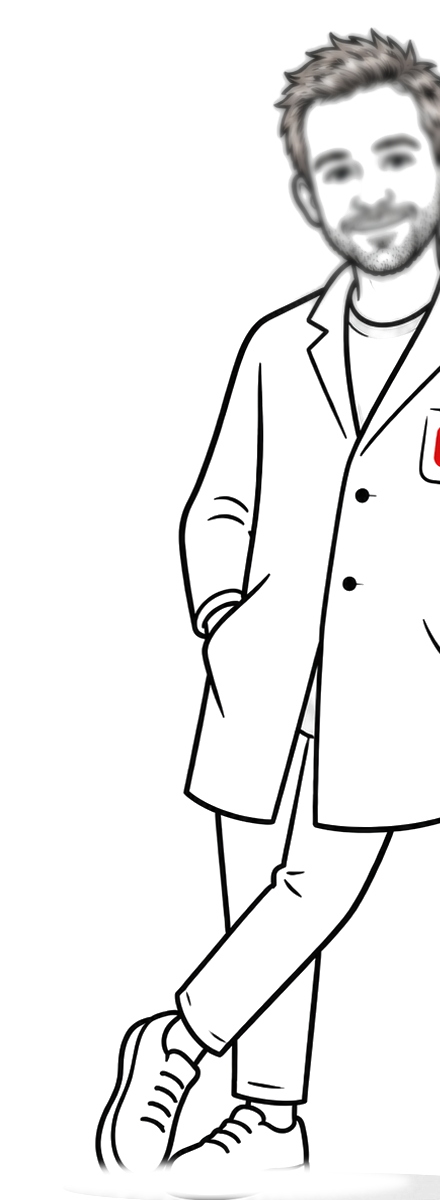
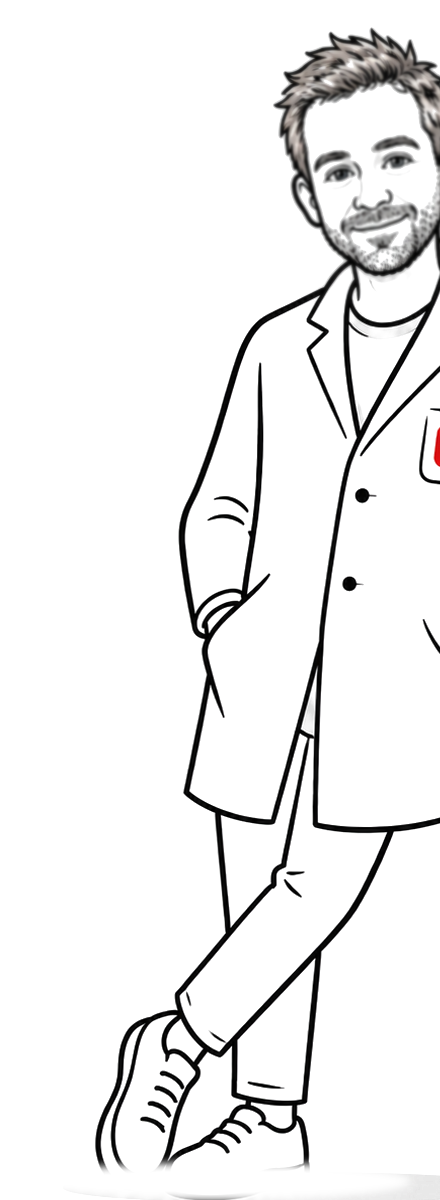
Add files via upload

Changed region(s): [[0.6205, 0.0, 1.0, 0.2775]]

diff --git a/login.html b/login.html
@@ -14,25 +14,18 @@
       <img class="person-photo" src="person.png" alt="Illustration of a scientist in a lab coat with a Swiss cross patch">
       <svg class="tof-mark" viewBox="-4 0 178 116" fill="none" xmlns="http://www.w3.org/2000/svg" aria-hidden="true">
         <rect x="0" y="0" width="110" height="30" rx="3" stroke="var(--ink)" stroke-width="1.7"/>
-            <rect x="110" y="0" width="60" height="110" rx="3" stroke="var(--ink)" stroke-width="1.7"/>
-            <rect x="104" y="6" width="12" height="18" stroke="var(--ink)" stroke-width="1.4"/>
-            <line x1="14" y1="0" x2="14" y2="6" stroke="var(--ink)" stroke-width="1.2"/>
-            <line x1="28" y1="0" x2="28" y2="6" stroke="var(--ink)" stroke-width="1.2"/>
-            <line x1="42" y1="0" x2="42" y2="6" stroke="var(--ink)" stroke-width="1.2"/>
-            <line x1="56" y1="0" x2="56" y2="6" stroke="var(--ink)" stroke-width="1.2"/>
-            <line x1="70" y1="0" x2="70" y2="6" stroke="var(--ink)" stroke-width="1.2"/>
-            <line x1="84" y1="0" x2="84" y2="6" stroke="var(--ink)" stroke-width="1.2"/>
-            <line x1="14" y1="24" x2="14" y2="30" stroke="var(--ink)" stroke-width="1.2"/>
-            <line x1="28" y1="24" x2="28" y2="30" stroke="var(--ink)" stroke-width="1.2"/>
-            <line x1="42" y1="24" x2="42" y2="30" stroke="var(--ink)" stroke-width="1.2"/>
-            <line x1="56" y1="24" x2="56" y2="30" stroke="var(--ink)" stroke-width="1.2"/>
-            <line x1="70" y1="24" x2="70" y2="30" stroke="var(--ink)" stroke-width="1.2"/>
-            <line x1="84" y1="24" x2="84" y2="30" stroke="var(--ink)" stroke-width="1.2"/>
-            <circle cx="122" cy="10" r="2.4" fill="var(--accent)"/>
-            <rect x="118" y="94" width="30" height="8" rx="1.5" stroke="var(--ink)" stroke-width="1.1"/>
-            <line x1="-4" y1="112" x2="174" y2="112" stroke="var(--ink)" stroke-width="2" stroke-linecap="round"/>
-            <line x1="10" y1="30" x2="10" y2="112" stroke="var(--ink)" stroke-width="1.2"/>
-            <line x1="150" y1="86" x2="150" y2="112" stroke="var(--ink)" stroke-width="1.2"/>
+        <rect x="110" y="0" width="60" height="110" rx="3" stroke="var(--ink)" stroke-width="1.7"/>
+        <line x1="110" y1="72" x2="170" y2="72" stroke="var(--ink)" stroke-width="1.3"/>
+        <circle cx="122" cy="84" r="1.8" fill="var(--accent)"/>
+        <circle cx="130" cy="84" r="1.8" stroke="var(--ink)" stroke-width="1"/>
+        <line x1="118" y1="100" x2="118" y2="106" stroke="var(--ink)" stroke-width="1"/>
+        <line x1="124" y1="100" x2="124" y2="106" stroke="var(--ink)" stroke-width="1"/>
+        <line x1="130" y1="100" x2="130" y2="106" stroke="var(--ink)" stroke-width="1"/>
+        <line x1="136" y1="100" x2="136" y2="106" stroke="var(--ink)" stroke-width="1"/>
+        <line x1="142" y1="100" x2="142" y2="106" stroke="var(--ink)" stroke-width="1"/>
+        <line x1="148" y1="100" x2="148" y2="106" stroke="var(--ink)" stroke-width="1"/>
+        <line x1="18" y1="30" x2="18" y2="36" stroke="var(--ink)" stroke-width="1.3"/>
+        <line x1="92" y1="30" x2="92" y2="36" stroke="var(--ink)" stroke-width="1.3"/>
         <path id="tof-path-login" d="M4 18 Q14 12 20 18 Q26 24 32 18 Q38 12 44 18 Q50 24 56 18 Q62 12 68 18 Q74 24 80 18 Q86 12 92 18 Q98 24 104 18 L110 18 L124 6 L136 40 L148 6 L156 100" stroke="none"/>
         <circle r="3" fill="var(--accent)"><animateMotion dur="3.2s" repeatCount="indefinite"><mpath href="#tof-path-login"/></animateMotion></circle>
         <circle r="2.6" fill="var(--offer)"><animateMotion dur="3.2s" begin="-1.1s" repeatCount="indefinite"><mpath href="#tof-path-login"/></animateMotion></circle>

diff --git a/index.html b/index.html
@@ -26,24 +26,17 @@
           <svg class="tof-mark" viewBox="-4 0 178 116" fill="none" xmlns="http://www.w3.org/2000/svg" aria-hidden="true">
             <rect x="0" y="0" width="110" height="30" rx="3" stroke="var(--ink)" stroke-width="1.7"/>
             <rect x="110" y="0" width="60" height="110" rx="3" stroke="var(--ink)" stroke-width="1.7"/>
-            <rect x="104" y="6" width="12" height="18" stroke="var(--ink)" stroke-width="1.4"/>
-            <line x1="14" y1="0" x2="14" y2="6" stroke="var(--ink)" stroke-width="1.2"/>
-            <line x1="28" y1="0" x2="28" y2="6" stroke="var(--ink)" stroke-width="1.2"/>
-            <line x1="42" y1="0" x2="42" y2="6" stroke="var(--ink)" stroke-width="1.2"/>
-            <line x1="56" y1="0" x2="56" y2="6" stroke="var(--ink)" stroke-width="1.2"/>
-            <line x1="70" y1="0" x2="70" y2="6" stroke="var(--ink)" stroke-width="1.2"/>
-            <line x1="84" y1="0" x2="84" y2="6" stroke="var(--ink)" stroke-width="1.2"/>
-            <line x1="14" y1="24" x2="14" y2="30" stroke="var(--ink)" stroke-width="1.2"/>
-            <line x1="28" y1="24" x2="28" y2="30" stroke="var(--ink)" stroke-width="1.2"/>
-            <line x1="42" y1="24" x2="42" y2="30" stroke="var(--ink)" stroke-width="1.2"/>
-            <line x1="56" y1="24" x2="56" y2="30" stroke="var(--ink)" stroke-width="1.2"/>
-            <line x1="70" y1="24" x2="70" y2="30" stroke="var(--ink)" stroke-width="1.2"/>
-            <line x1="84" y1="24" x2="84" y2="30" stroke="var(--ink)" stroke-width="1.2"/>
-            <circle cx="122" cy="10" r="2.4" fill="var(--accent)"/>
-            <rect x="118" y="94" width="30" height="8" rx="1.5" stroke="var(--ink)" stroke-width="1.1"/>
-            <line x1="-4" y1="112" x2="174" y2="112" stroke="var(--ink)" stroke-width="2" stroke-linecap="round"/>
-            <line x1="10" y1="30" x2="10" y2="112" stroke="var(--ink)" stroke-width="1.2"/>
-            <line x1="150" y1="86" x2="150" y2="112" stroke="var(--ink)" stroke-width="1.2"/>
+            <line x1="110" y1="72" x2="170" y2="72" stroke="var(--ink)" stroke-width="1.3"/>
+            <circle cx="122" cy="84" r="1.8" fill="var(--accent)"/>
+            <circle cx="130" cy="84" r="1.8" stroke="var(--ink)" stroke-width="1"/>
+            <line x1="118" y1="100" x2="118" y2="106" stroke="var(--ink)" stroke-width="1"/>
+            <line x1="124" y1="100" x2="124" y2="106" stroke="var(--ink)" stroke-width="1"/>
+            <line x1="130" y1="100" x2="130" y2="106" stroke="var(--ink)" stroke-width="1"/>
+            <line x1="136" y1="100" x2="136" y2="106" stroke="var(--ink)" stroke-width="1"/>
+            <line x1="142" y1="100" x2="142" y2="106" stroke="var(--ink)" stroke-width="1"/>
+            <line x1="148" y1="100" x2="148" y2="106" stroke="var(--ink)" stroke-width="1"/>
+            <line x1="18" y1="30" x2="18" y2="36" stroke="var(--ink)" stroke-width="1.3"/>
+            <line x1="92" y1="30" x2="92" y2="36" stroke="var(--ink)" stroke-width="1.3"/>
             <path id="tof-path-hero" d="M4 18 Q14 12 20 18 Q26 24 32 18 Q38 12 44 18 Q50 24 56 18 Q62 12 68 18 Q74 24 80 18 Q86 12 92 18 Q98 24 104 18 L110 18 L124 6 L136 40 L148 6 L156 100" stroke="none"/>
             <circle r="3" fill="var(--accent)"><animateMotion dur="3.2s" repeatCount="indefinite"><mpath href="#tof-path-hero"/></animateMotion></circle>
             <circle r="2.6" fill="var(--offer)"><animateMotion dur="3.2s" begin="-1.1s" repeatCount="indefinite"><mpath href="#tof-path-hero"/></animateMotion></circle>

diff --git a/style.css b/style.css
@@ -83,6 +83,8 @@ a { color: inherit; }
   height: 300px;
   width: auto;
   display: block;
+  position: relative;
+  z-index: 2;
 }
 
 .tof-mark {
@@ -91,6 +93,8 @@ a { color: inherit; }
   margin-top: 148px;
   margin-left: -55px;
   display: block;
+  position: relative;
+  z-index: 1;
 }
 
 .hero-figure--sm {
@@ -122,12 +126,18 @@ a { color: inherit; }
 
 .brand-lean-figure {
   position: absolute;
-  left: -10px;
-  bottom: -8px;
-  height: 58px;
+  left: -4px;
+  bottom: -6px;
+  height: 42px;
   width: auto;
   transform: scaleX(-1);
   pointer-events: none;
+  z-index: 0;
+}
+
+.brand-word {
+  position: relative;
+  z-index: 1;
 }
 
 .cap {
